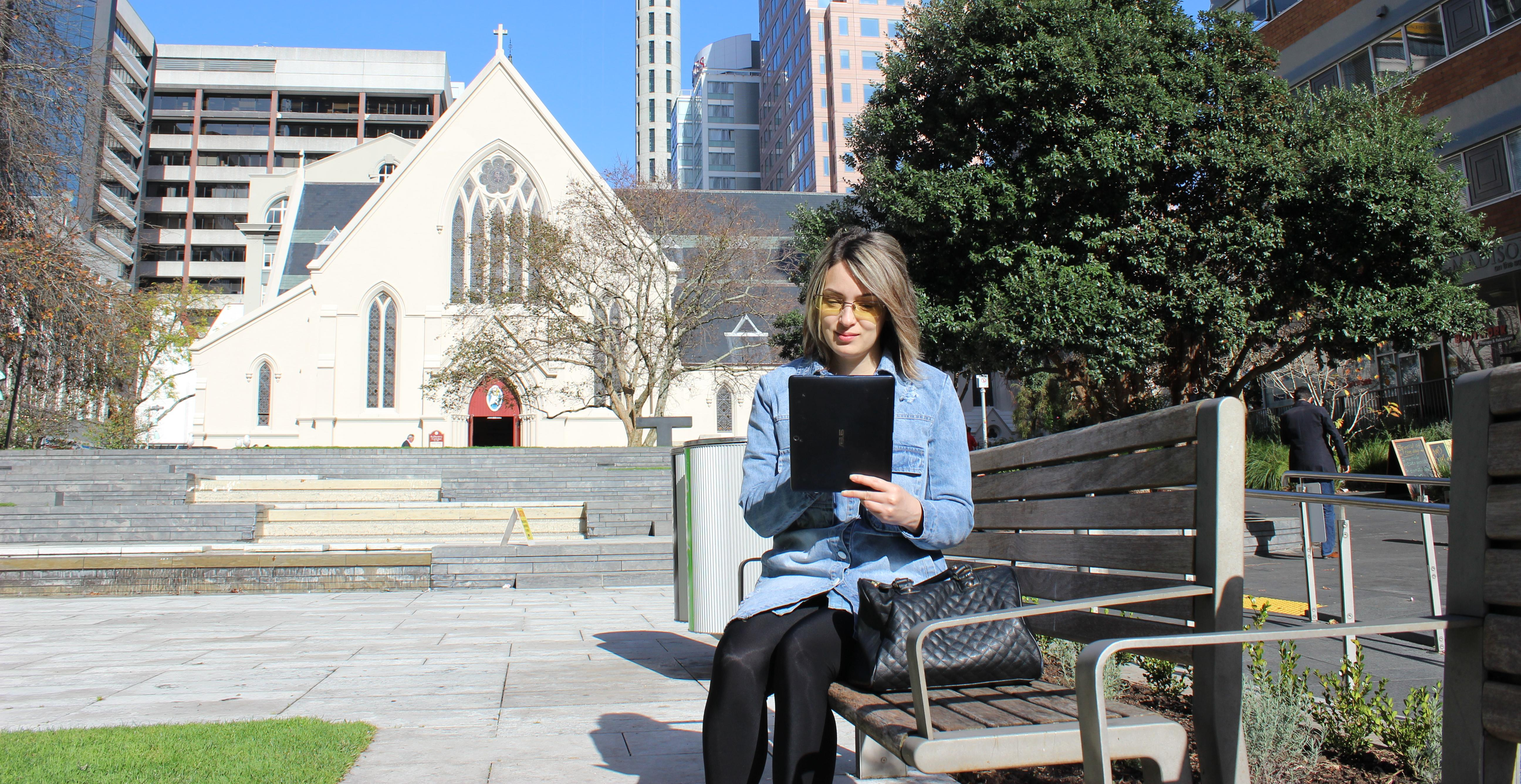
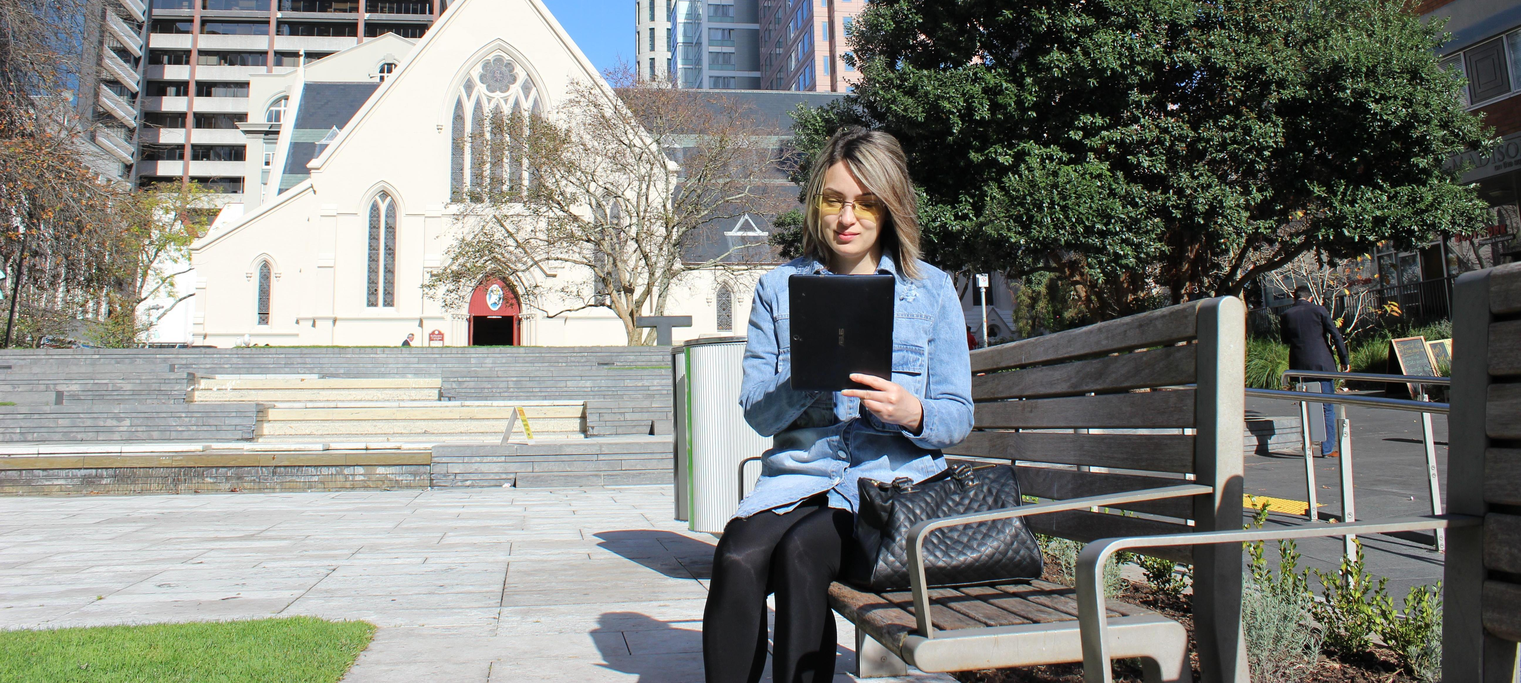
slider

diff --git a/www/css/carousel.css b/www/css/carousel.css
@@ -48,7 +48,7 @@ body {
 
 /* Declare heights because of positioning of img element */
 .carousel .item {
-  height: 600px;
+  height: 500px;
   background-color: #777;
 }
 .carousel-inner > .item > img {

diff --git a/resources/views/index.blade.php b/resources/views/index.blade.php
@@ -9,6 +9,9 @@
       <ol class="carousel-indicators">
         <li data-target="#myCarousel" data-slide-to="0" class="active"></li>
         <li data-target="#myCarousel" data-slide-to="1"></li>
+        <li data-target="#myCarousel" data-slide-to="2"></li>
+        <li data-target="#myCarousel" data-slide-to="3"></li>
+        <li data-target="#myCarousel" data-slide-to="4"></li>
       </ol>
       <div class="carousel-inner" role="listbox">
         <div class="item active">
